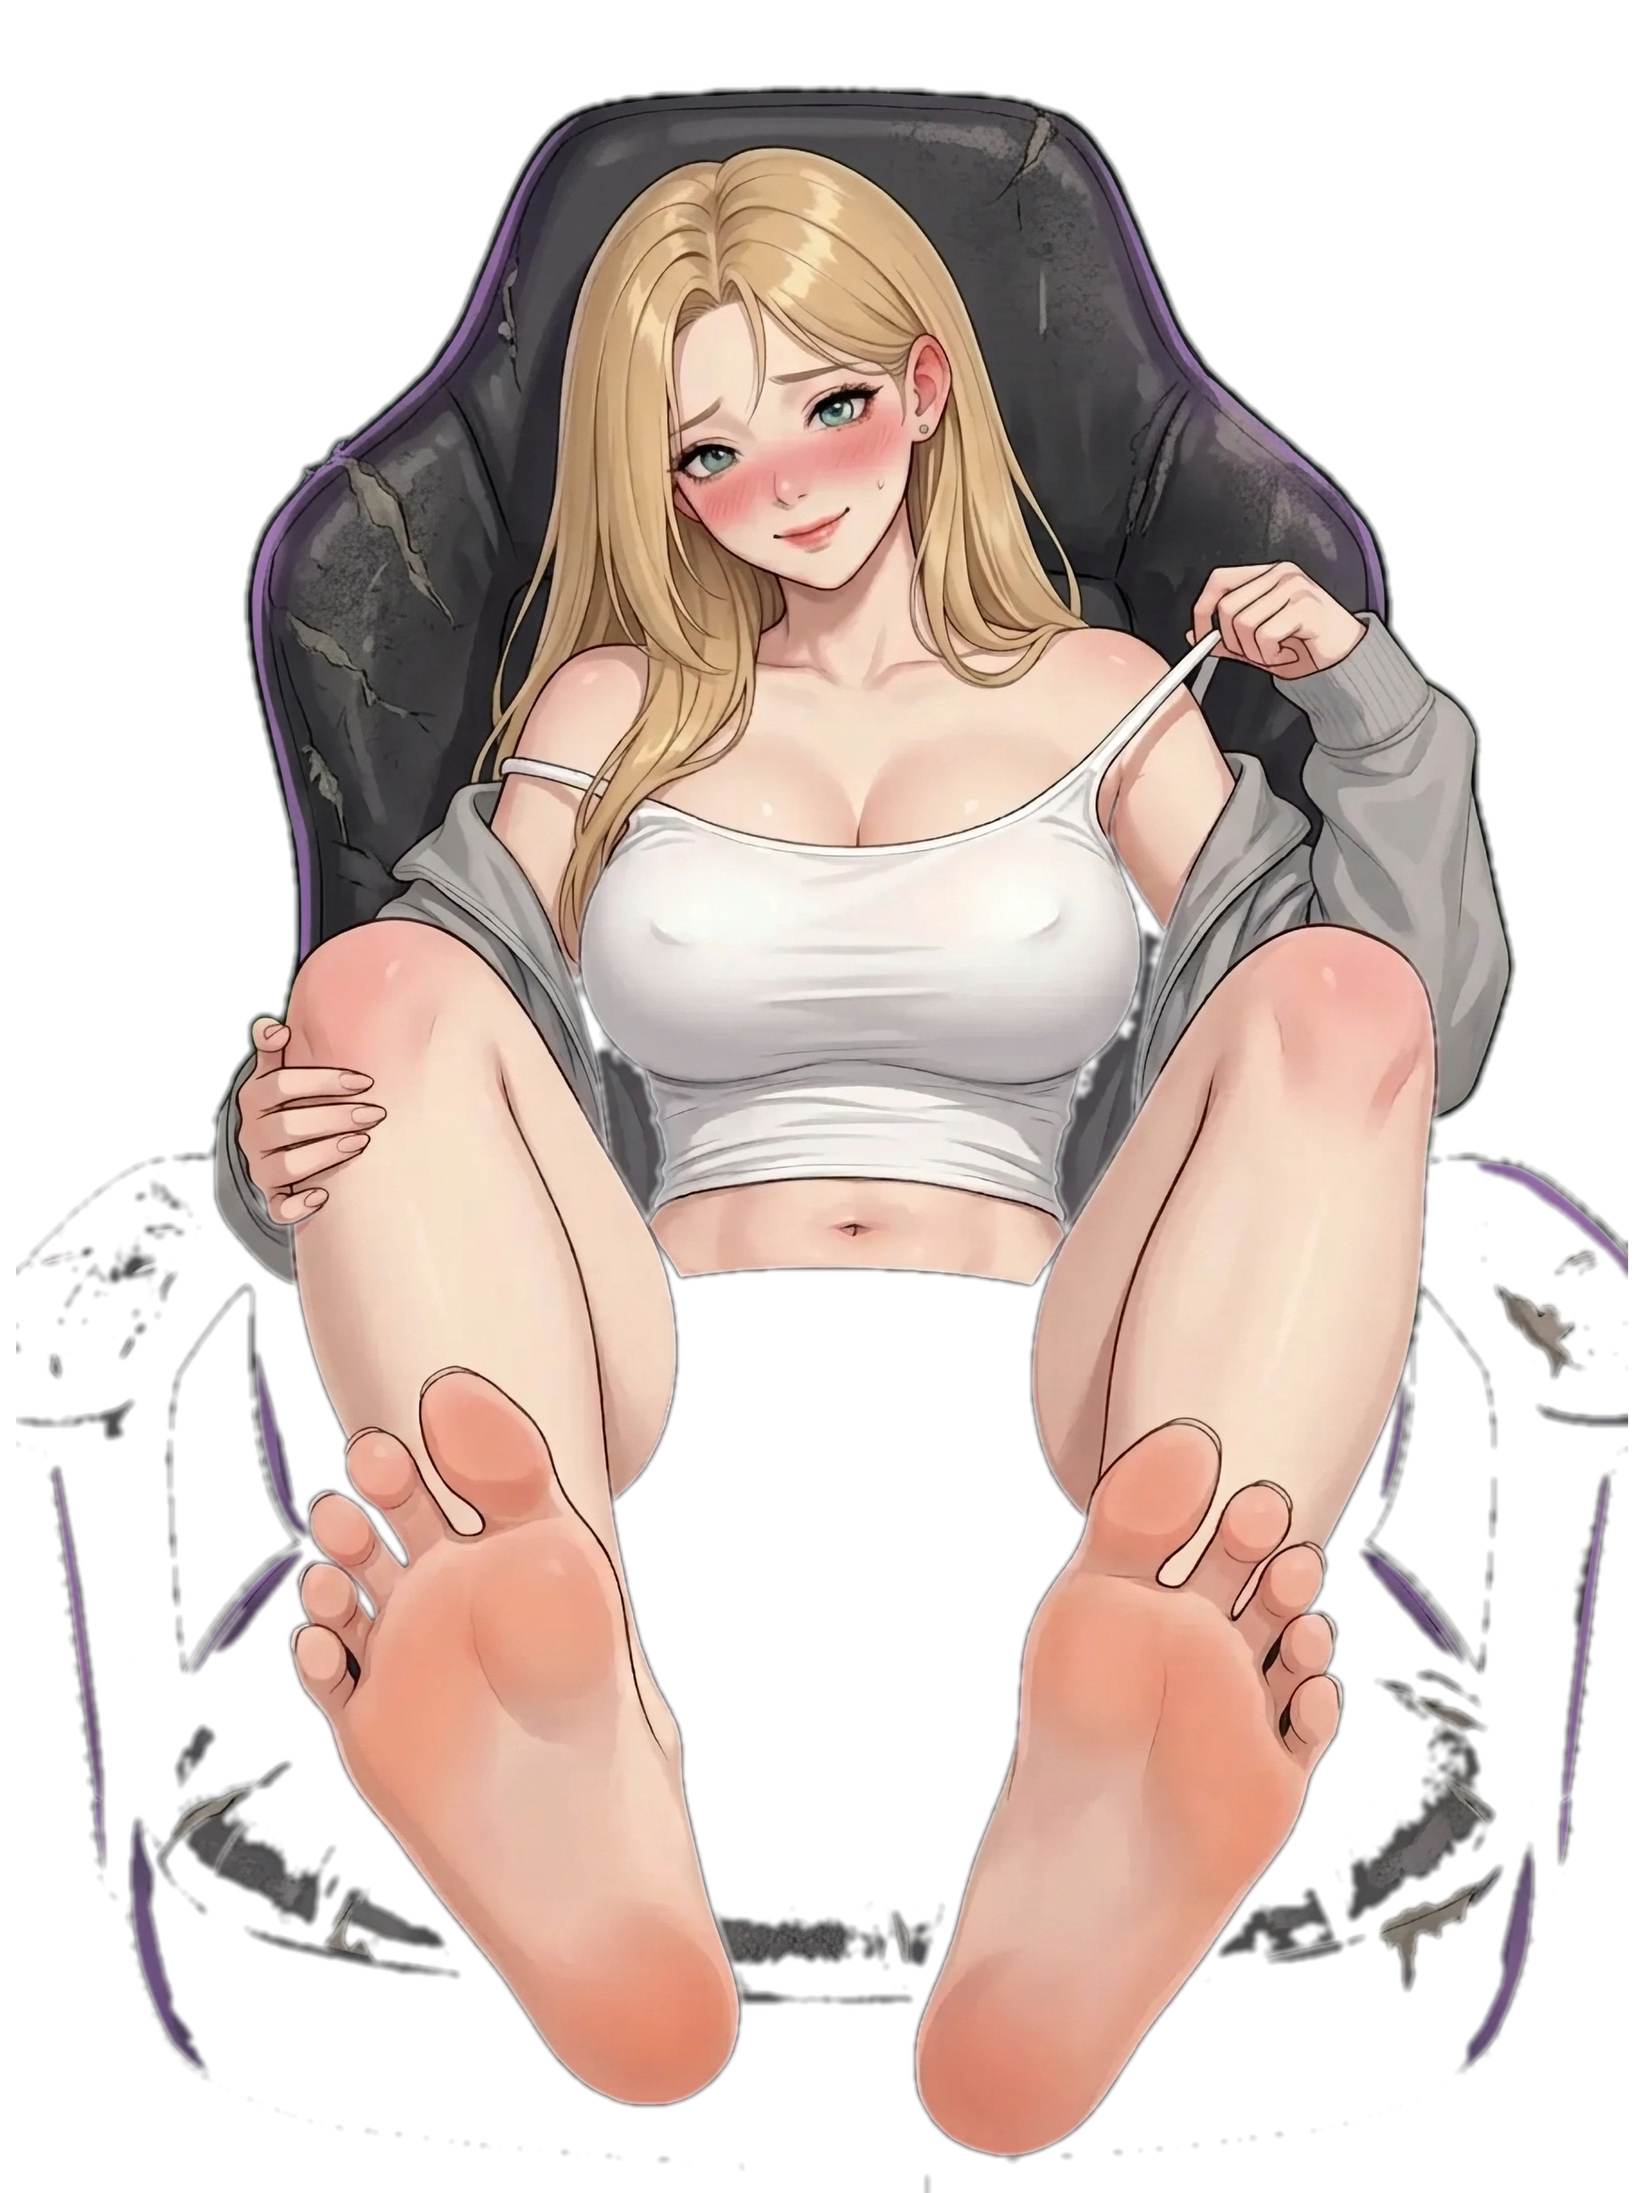
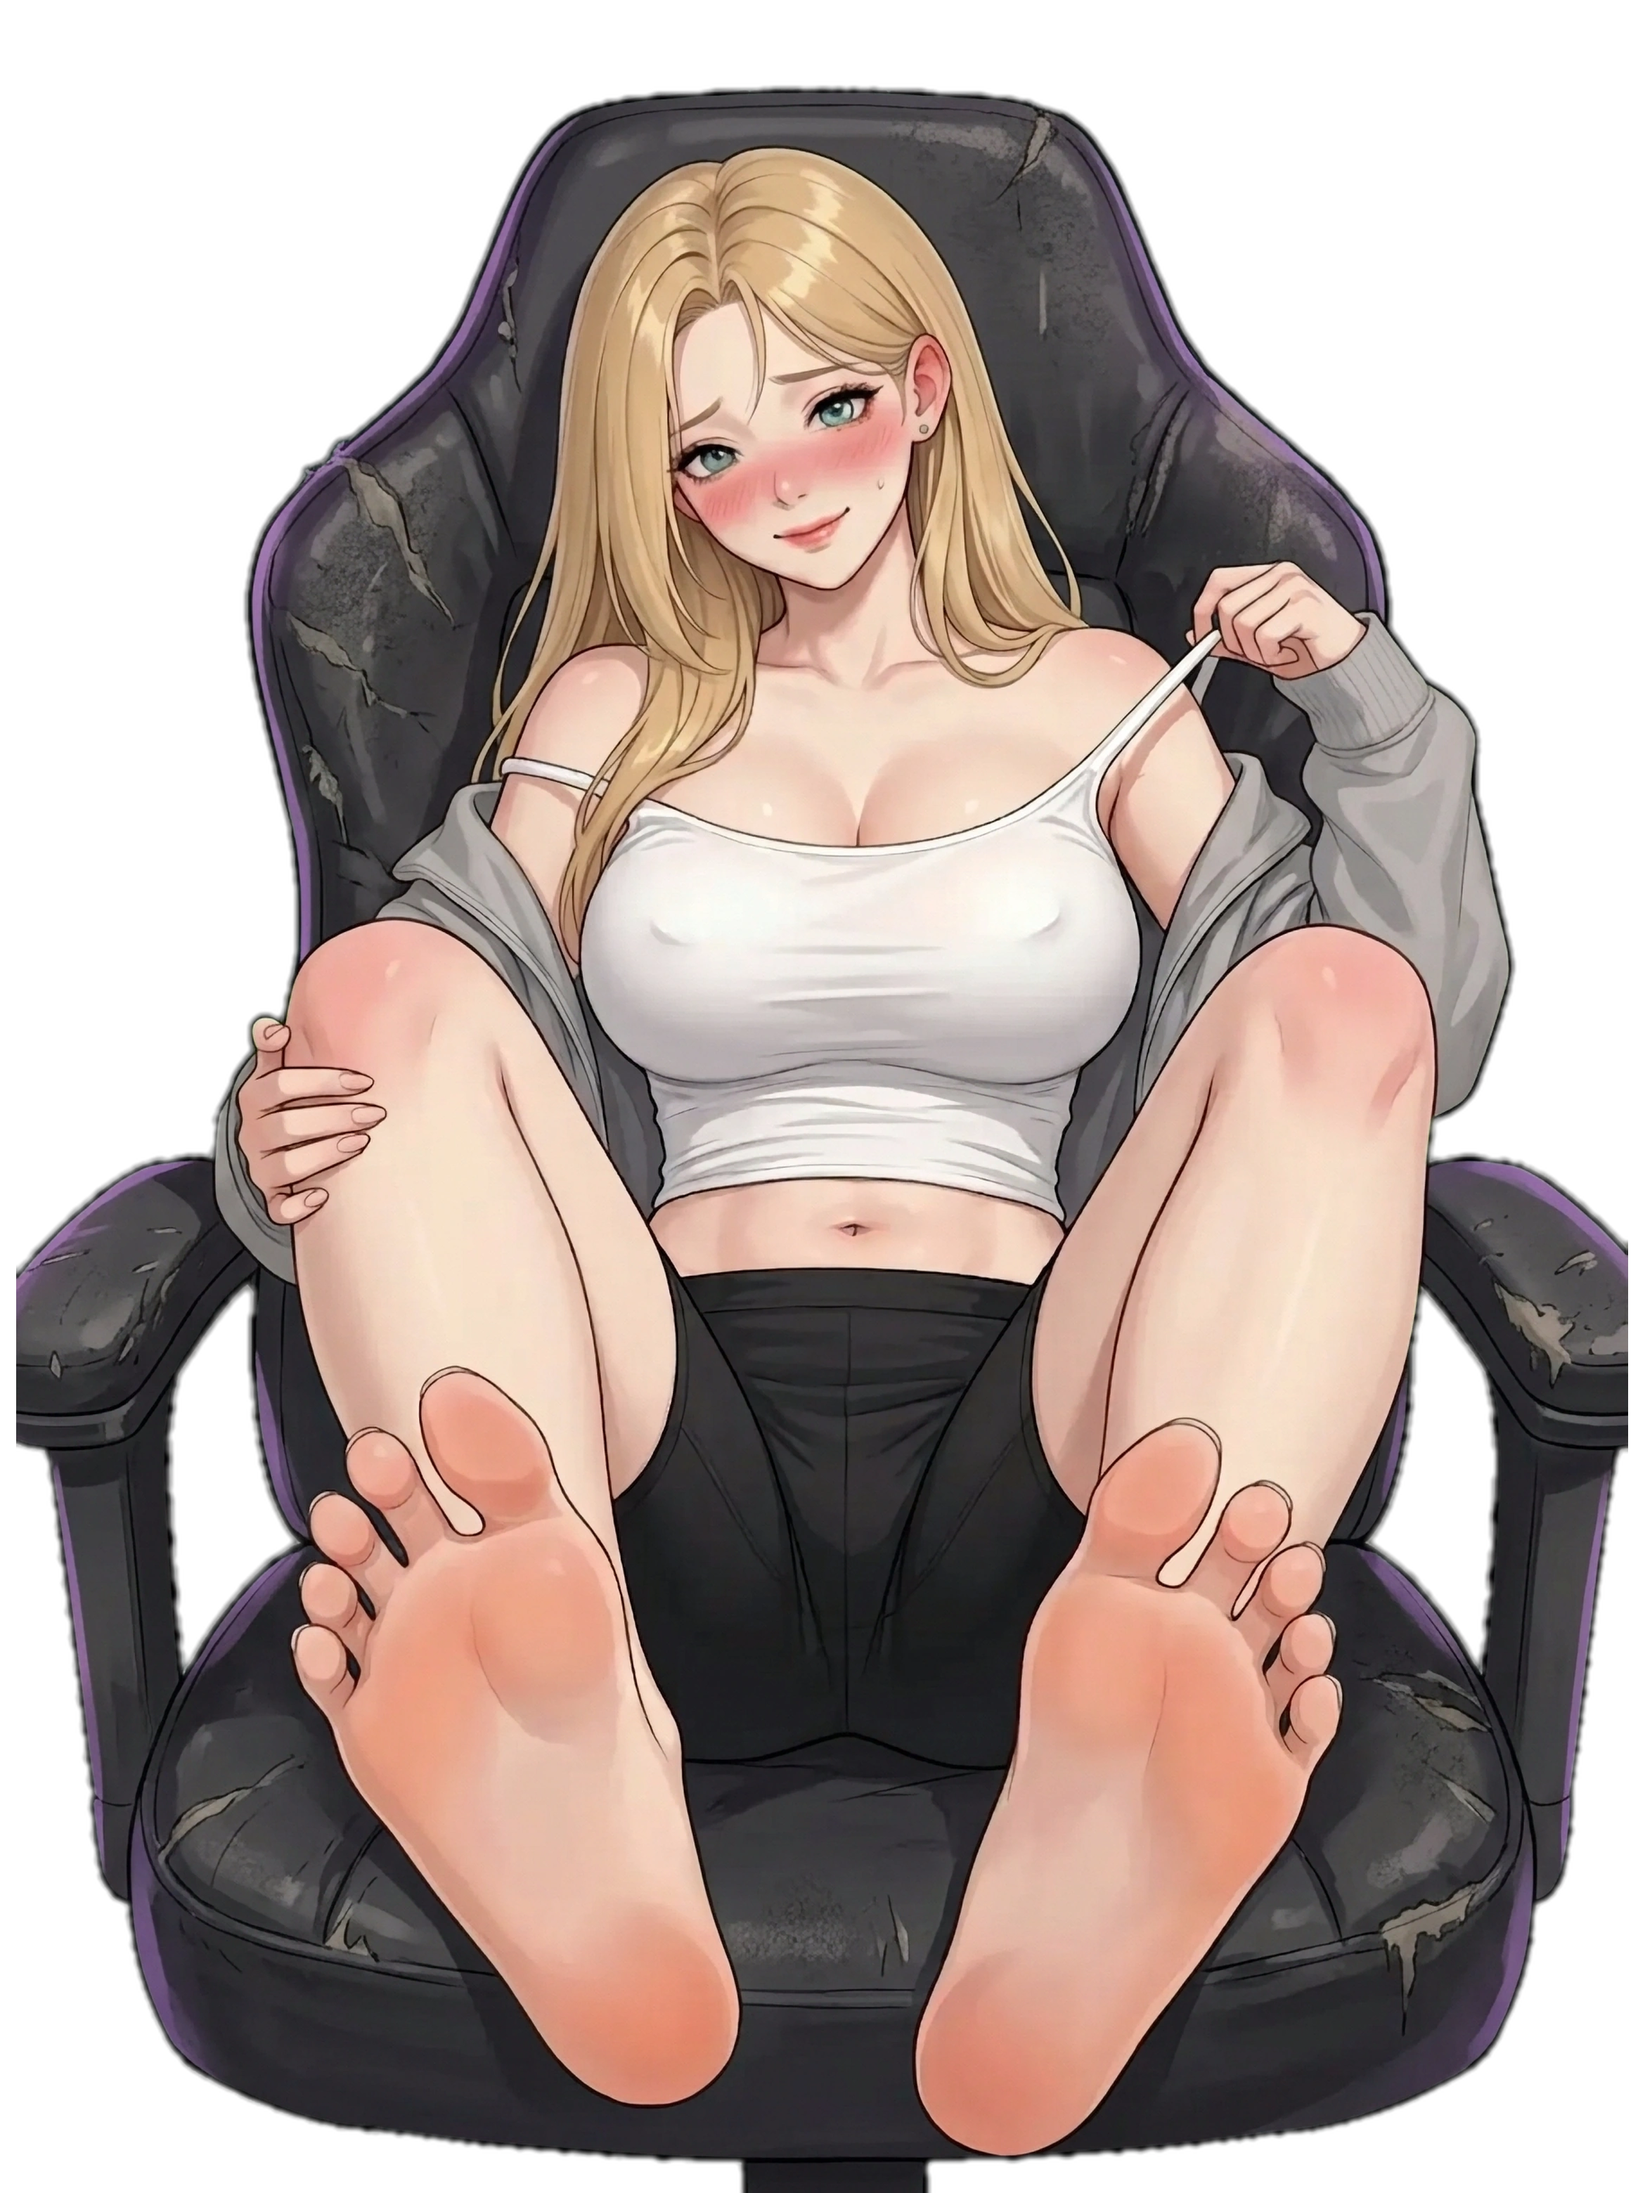
Fix chroma key holes (dark chair and black shorts were being eaten - keyed pixels must be green-dominant) and rebuild all four frames; remove tap squash, idle float and lean zoom; add a masked chest layer that springs only on tap

diff --git a/index.html b/index.html
@@ -340,7 +340,7 @@ main{
   transition:transform .42s cubic-bezier(.175,.885,.32,1.275);
   will-change:transform;
 }
-.art-lean.lean{ transform:scale(1.04) translateY(-8px); }
+.art-lean.lean{ filter:brightness(1.06); }
 
 /* rest scale > 1 keeps every edge covered while the squash plays */
 .art-tap{
@@ -348,20 +348,10 @@ main{
   transform:scale(1.03, 1.02);
   will-change:transform;
 }
-.art-tap.bounce{ animation:streamerTap .34s cubic-bezier(.175,.885,.32,1.275); }
-@keyframes streamerTap{
-  0%   { transform:scale(1.055, 1.006); }   /* squashed under the finger */
-  45%  { transform:scale(1.022, 1.030); }   /* elastic rebound */
-  100% { transform:scale(1.03, 1.02); }     /* rest */
-}
-
-/* никакого масштаба: арт не тянется, кресло не «дышит» вместе с ней */
-@keyframes streamerIdle{
-  0%, 100% { transform:translateY(0); }
-  50%      { transform:translateY(-1.5px); }
-}
+.art-tap.bounce{ animation:none; }
+/* никаких подскоков и растяжений: геометрия спрайта в покое и на тап не меняется.
+   Единственное движение — «физика груди» на отдельном слое с мягкой маской. */
 .art-img{ transform-origin:50% 50%; }
-.art-lean.idle .art-img{ animation:streamerIdle 4.6s ease-in-out infinite; }
 
 #fpsBadge{
   position:absolute; left:10px; bottom:10px; z-index:7; display:none;
@@ -985,6 +975,32 @@ main{
 .hero .art-img.on{ opacity:1; }
 .hero .art-img{ will-change:opacity; }
 /* передний план: столешница пиксель в пиксель с фоном, выше героини */
+.hero .art-chest{
+  position:absolute; left:50%; bottom:2%; height:90%; width:auto; max-height:100%;
+  transform:translateX(-50%); z-index:2;
+  pointer-events:none; opacity:0; transition:opacity .35s ease;
+  will-change:transform;
+  -webkit-mask-image:radial-gradient(ellipse var(--rx,21%) var(--ry,10%) at var(--cx,50%) var(--cy,36%),
+    #000 0%, #000 42%, rgba(0,0,0,0) 84%);
+  mask-image:radial-gradient(ellipse var(--rx,21%) var(--ry,10%) at var(--cx,50%) var(--cy,36%),
+    #000 0%, #000 42%, rgba(0,0,0,0) 84%);
+  -webkit-mask-repeat:no-repeat; mask-repeat:no-repeat;
+}
+.hero .art-chest.on{ opacity:1; }
+#scene.stage-3 .art-chest{ --cy:35%; --rx:22%; }
+#scene.stage-4 .art-chest{ bottom:16.5%; height:80%; --cy:29%; --rx:23%; --ry:11%; }
+
+@keyframes chestJiggle{
+  0%   { transform:translateX(-50%) translateY(0); }
+  16%  { transform:translateX(-50%) translateY(1.3%); }
+  38%  { transform:translateX(-50%) translateY(-0.55%); }
+  58%  { transform:translateX(-50%) translateY(0.3%); }
+  78%  { transform:translateX(-50%) translateY(-0.12%); }
+  100% { transform:translateX(-50%) translateY(0); }
+}
+.hero .art-chest.hit{ animation:chestJiggle .55s cubic-bezier(.25,.75,.3,1); }
+@media (prefers-reduced-motion: reduce){ .hero .art-chest.hit{ animation:none; } }
+
 .hero .art-desk{
   position:absolute; inset:0; width:100%; height:100%;
   object-fit:cover; object-position:50% 50%;
@@ -1159,6 +1175,8 @@ main{
         <div class="art-lean" id="artLean">
           <div class="art-tap" id="artTap">
             <img class="art-img" id="artImg" alt="" />
+            <!-- физика груди: копия кадра с мягкой маской, двигается только на тап -->
+            <img class="art-chest" id="artChest" alt="" aria-hidden="true" />
           </div>
         </div>
 
@@ -1629,7 +1647,7 @@ const ADMIN = { open: false, pausedChat: false, pausedSim: false, taps: 0, lastT
 /* ---------- DOM ---------- */
 const $ = (s) => document.querySelector(s);
 const el = {
-  scene: $('#scene'), char: $('#char'), artImg: $('#artImg'), artBg: $('#artBg'), artDesk: $('#artDesk'), fx: $('#fx'),
+  scene: $('#scene'), char: $('#char'), artImg: $('#artImg'), artChest: $('#artChest'), artBg: $('#artBg'), artDesk: $('#artDesk'), fx: $('#fx'),
   bits: $('#bitsCount'), viewers: $('#viewerCount'), viewersPill: $('#viewersPill'),
   subs: $('#subCount'), chatOnline: $('#chatOnline'),
   stageTitle: $('#stageTitle'), stageSub: $('#stageSub'), goalText: $('#goalText'),
@@ -1679,12 +1697,18 @@ function motionSync(src){
 }
 
 /* tap = elastic squash; power >= 0.9 (donation / purchase / stage-up) also leans in */
+function chestHit(){
+  const c = document.getElementById('artChest');
+  if (!c || !c.classList.contains('on')) return;
+  c.classList.remove('hit');
+  void c.offsetWidth;
+  c.classList.add('hit');
+}
+
+/* тап: шевелится только грудь, спрайт стоит на месте */
 function motionTap(power){
-  if (MOTION.reduced || !MOTION.tap) return;
-  const t = MOTION.tap;
-  t.classList.remove('bounce');
-  void t.offsetWidth;
-  t.classList.add('bounce');
+  if (MOTION.reduced) return;
+  chestHit();
   if (power >= 0.9) motionLean(1500);
 }
 
@@ -2085,12 +2109,14 @@ function loadArt(src){
     if (token !== artToken) return;
     el.artImg.src = src;
     el.artImg.classList.add('on');
+    if (el.artChest) { el.artChest.src = src; el.artChest.classList.add('on'); }
     motionSync(src);
   };
   probe.onerror = () => {
     if (token !== artToken) return;
     el.artImg.classList.remove('on');
     el.artImg.removeAttribute('src');
+    if (el.artChest) { el.artChest.classList.remove('on','hit'); el.artChest.removeAttribute('src'); }
     motionSync('');
   };
   probe.src = src;

diff --git a/tools/prep_arts.py b/tools/prep_arts.py
@@ -65,7 +65,10 @@ def key_chroma(im, thresh=FLOOD_THRESH, tight=TIGHT):
     fa = np.array(work)
     border_bg = (fa[..., 0] > 245) & (fa[..., 1] < 12) & (fa[..., 2] > 245)
 
-    bg = colour_bg | border_bg
+    # страховка от «дыр»: фоном может быть только пиксель, где зелёный доминирует.
+    # без этого тёмное кресло и чёрные шорты попадали в допуск суммы и выедались.
+    green_dom = (src[..., 1] > src[..., 0] + 28) & (src[..., 1] > src[..., 2] + 28)
+    bg = (colour_bg | border_bg) & green_dom
     alpha = np.where(bg, 0.0, 255.0)
     a_img = Image.fromarray(alpha.astype(np.uint8), 'L')
     soft = np.array(a_img.filter(ImageFilter.GaussianBlur(FEATHER))).astype(np.float32)
